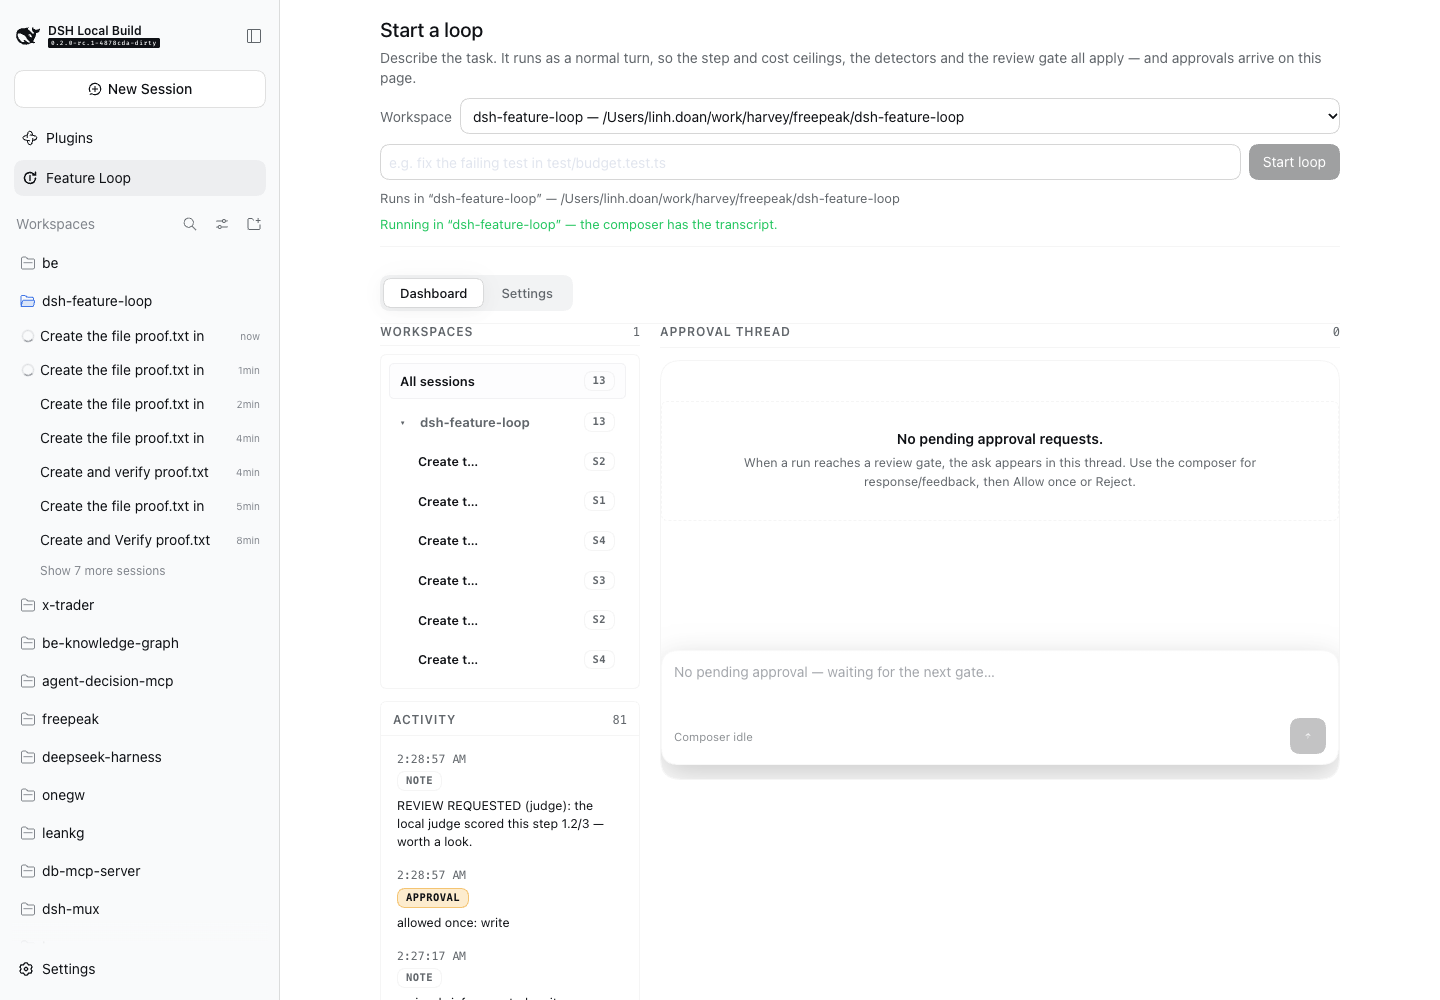
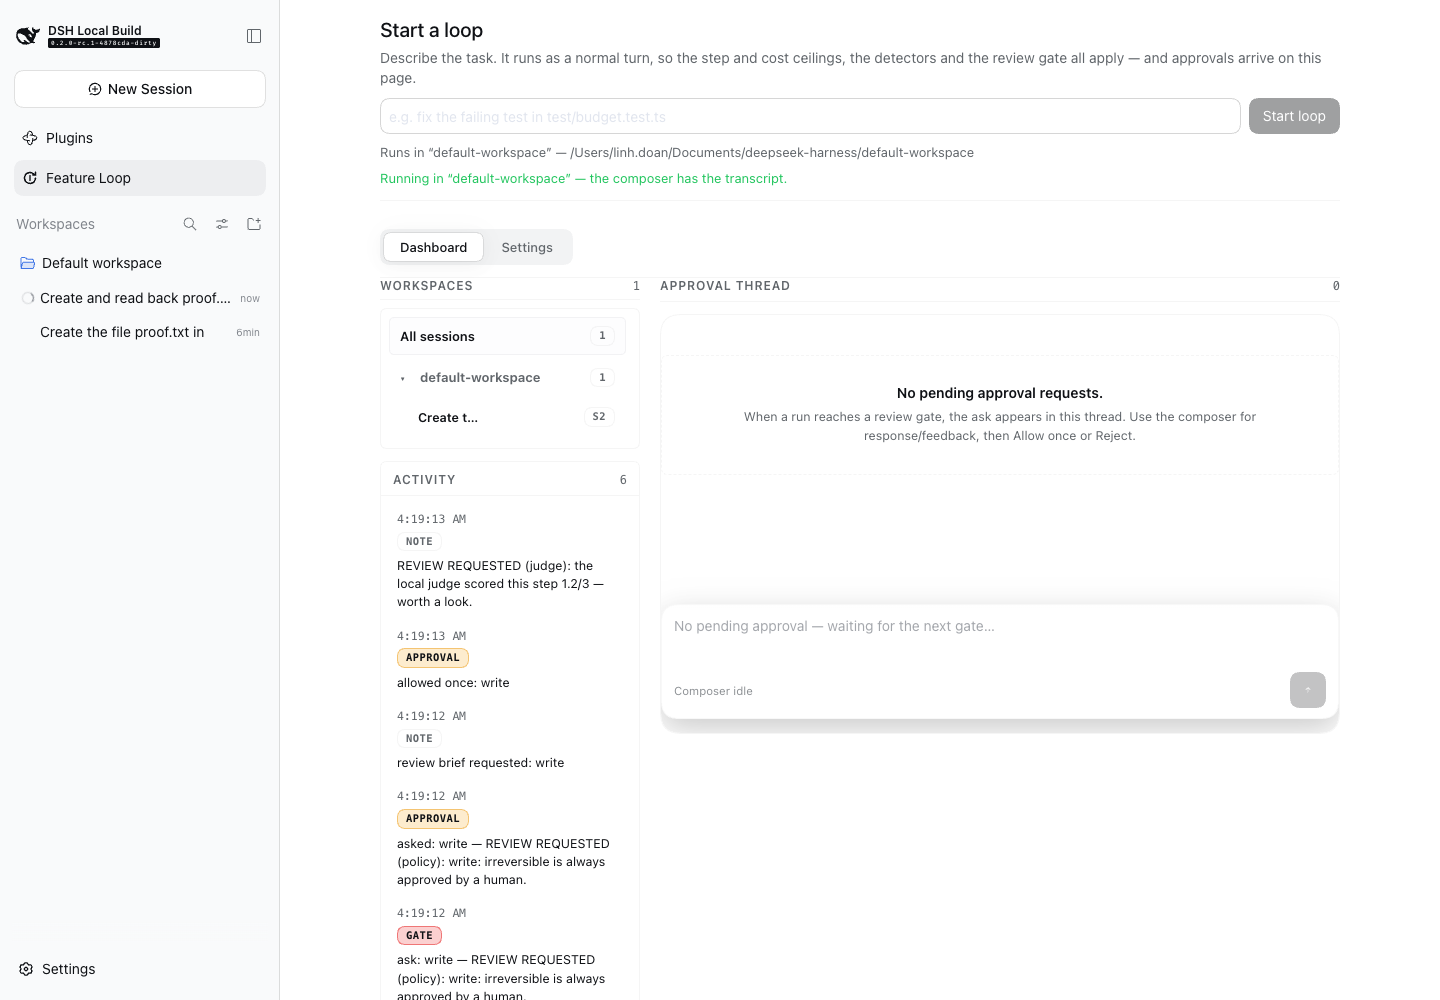
Prove the generated profile, and document the two silent first-run failures
Last commit made all three shipped specs name declared models. That is a
claim about correctness, and this one is a claim about EXECUTION: the
profile `scripts/make-profile.sh` generates was run end to end — fresh
DSH_HOME, fresh profile, real loop through its own page, real click.

Both directions:

    e2e-in-ui (allow): Allow once → the file exists at …/proof.txt
    e2e-in-ui (reject): Reject → no file at …/proof.txt

    {"step": 3, "maxSteps": 15, "spentUSD": 0.00382854,
     "unpricedSteps": 0, "route": "onegw/opencode/deepseek-v4.1-flash"}

`unpricedSteps: 0` on a generated profile is the row that was wrong in
three files two commits ago, now correct in a fourth by construction.

Two failures found on the way, both silent, both now written where the
script prints them:

- `ONEGW_API_KEY` must be in the environment that BOOTS the server. The
  profile references the key by name and never writes it — correct posture,
  silent consequence: started without it, the server boots perfectly, both
  surfaces answer, the dashboard records the run, and the first model call
  dies with `no credential for provider route "onegw"`. Reads like a plugin
  failure; is not one.

- A fresh profile also gets the API-key onboarding modal, on top of the
  harness Preview Notice. Both cover the sidebar, so a click on Feature Loop
  under either does nothing and reads as a dead button. `test/e2e-in-ui.mjs`
  now dismisses each in turn instead of `break`ing on the first hit —
[…]

diff --git a/docs/evidence/docker-20261001.md b/docs/evidence/docker-20261001.md
@@ -148,11 +148,51 @@ Frames: [`docker-allow.png`](docker-allow.png), [`docker-reject.png`](docker-rej
 difference between a cost ceiling that measures something and one that reads
 `$0.00` forever.
 
+## The generated local profile, proved the same way
+
+`scripts/make-profile.sh` carries the same spec as the container, so it was run
+end to end too — a fresh `DSH_HOME`, a fresh profile, `make profile`-equivalent,
+then a real loop driven through its own page.
+
+**Finding 8: `ONEGW_API_KEY` must be in the environment that BOOTS the server.**
+The profile references the key by name (`apiKeyEnv: ONEGW_API_KEY`) and never
+writes it anywhere, which is the correct posture and creates a silent failure:
+started without the key, the server boots perfectly — both surfaces answer, the
+dashboard records the run with its route, step and spend — and the *first model
+call* dies with `llm-pi-ai: no credential for provider route "onegw"`. That
+reads as a plugin failure and is not one. Now printed by the script's own
+closing message and written up in `docs/SETUP.md` §Step 2.
+
+**Finding 9: a fresh profile also gets the API-key onboarding modal.** Two
+modals stand between a fresh boot and the Feature Loop page — the harness
+Preview Notice, and "Add an API key / Configure later" — and both cover the
+sidebar, so a click on **Feature Loop** under either does nothing and reads as
+a dead button. `test/e2e-in-ui.mjs` now dismisses each in turn instead of
+`break`ing on the first hit (dismissing the first can reveal the second). It sat
+on a 30-second locator timeout with no other symptom before this.
+
+Both directions on the generated profile:
+
+| | Allow once | Reject |
+|---|---|---|
+| Target | `Runs in "default-workspace" — …` | same |
+| Card | `REVIEW REQUESTED (policy): write: irreversible is always approved by a human.` | same |
+| File | exists, `hello` | absent |
+
+```json
+{ "step": 3, "maxSteps": 15, "spentUSD": 0.00382854,
+  "unpricedSteps": 0, "route": "onegw/opencode/deepseek-v4.1-flash",
+  "budgetUSD": 1 }
+```
+
+`unpricedSteps: 0` on a profile generated by the script — the row that was wrong
+in three files two commits ago, now correct in a fourth by construction.
+
 ## What is still unverified
 
-Nothing on this path. The container is built, booted, gated, and answered by a
-clicked button in both directions, with the dashboard reporting the same run the
-page is rendering.
+Nothing on this path. The container and the generated profile are both built,
+booted, gated, and answered by a clicked button in both directions, with the
+dashboard reporting the same run the page is rendering.
 
 The setup that reaches this — add a Workspace once, then start loops — is now in
 [`../docker/README.md`](../docker/README.md), next to the model-route note that

diff --git a/docs/SETUP.md b/docs/SETUP.md
@@ -214,6 +214,35 @@ bash scripts/make-profile.sh --help
 #   [name] [--port N] [--dashboard-port N] [--web|--headless]
 ```
 
+**Two things must be true before the first run, and neither produces an error.**
+
+The script cannot set either one for you, because both are facts about the
+machine rather than about the profile — and both were found by running this
+(2026-10-01, against DSH 0.2.0-rc.1):
+
+1. **`ONEGW_API_KEY` must be in the environment that boots the server.** The
+   profile references it by name (`apiKeyEnv: ONEGW_API_KEY`), so no key is
+   ever written into the profile. A server started without it boots perfectly:
+   both surfaces answer, the dashboard records the run, and the *first model
+   call* dies with
+
+   ```
+   llm-pi-ai: no credential for provider route "onegw"; its profile resolves
+   ONEGW_API_KEY, which is not set
+   ```
+
+   That reads like a plugin failure and is not one. Start the server from a
+   shell that exports it, or pass it inline.
+
+2. **Add a Workspace.** A fresh `DSH_HOME` has none, and the Feature Loop page
+   says so — correctly, since guessing which checkout to write into is the wrong
+   default:
+
+   > No workspace is registered yet — open a project folder, then start the loop.
+
+   Use the sidebar's **Add workspace**. Everything after that is one loop:
+   type a task, press **Start loop**, click **Allow once**.
+
 **One port per process.** Each dsh process owns its own approval registry *and*
 its own dashboard, so the headless twin needs a different dashboard port from
 the web one:
